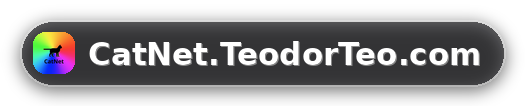
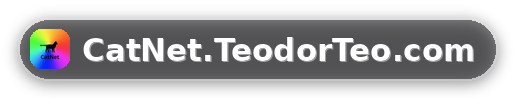
Znaki wodne mini i mniej inwazyjne: plakietka 170px (14% kadru) i lzejsza, ukryta warstwa oslabiona do 12
Claude-Session: https://claude.ai/code/session_01BA6RZv8pG71TcAgb7MvVCM

diff --git a/worker.js b/worker.js
@@ -65,7 +65,7 @@ async function randomCatImage(request, env, url) {
           quality: 88,
           draw: [
             { url: WM_HIDDEN_URL },
-            { url: WM_URL, width: 300, bottom: 18, right: 18 }
+            { url: WM_URL, width: 170, bottom: 14, right: 14 }
           ]
         }
       }
